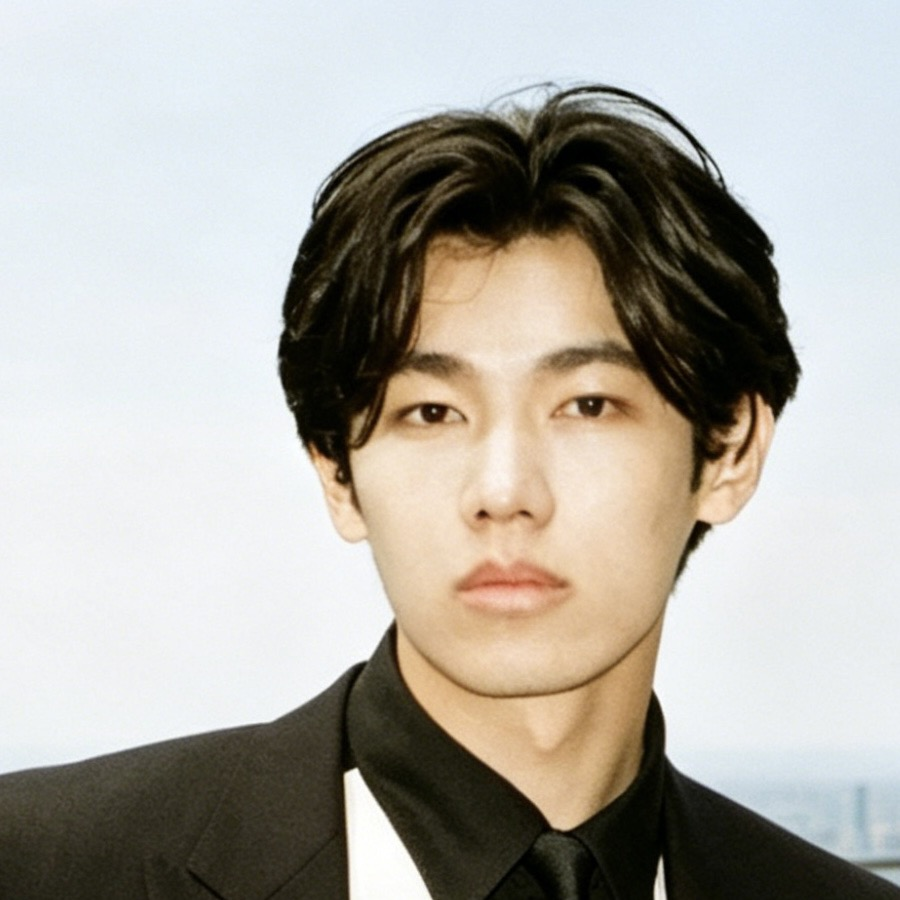
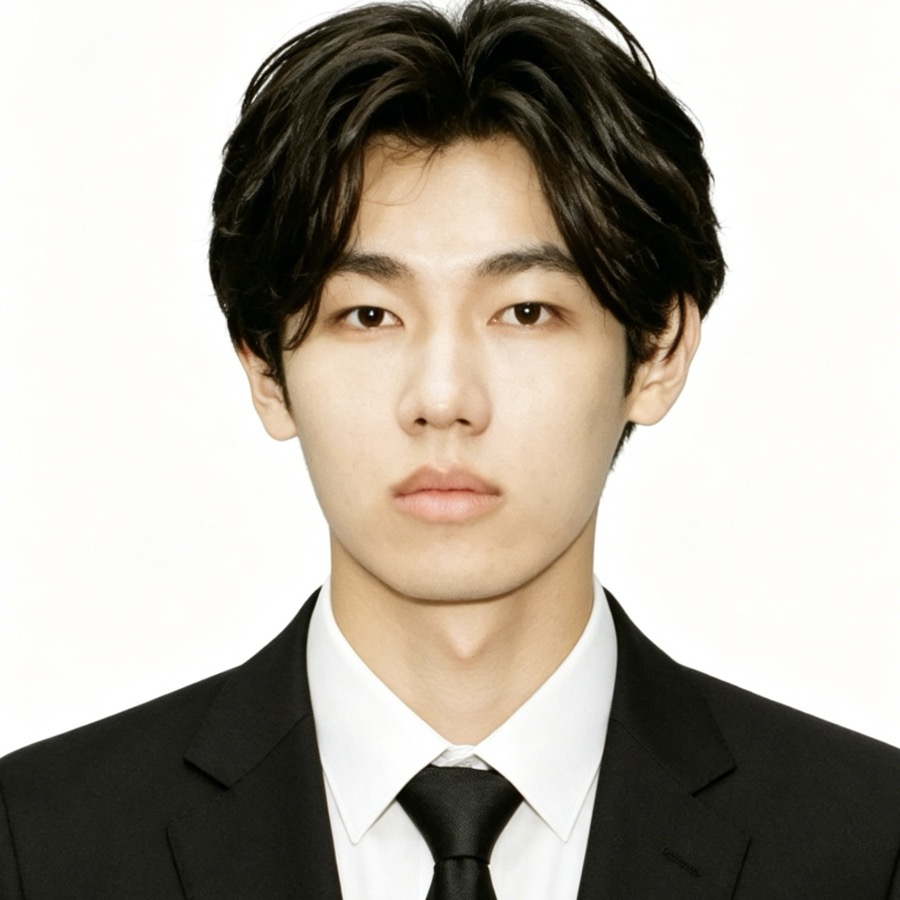
Integrations → category list, restore Xili Tech branding, recrop founder
Integrations section
- Dropped the PLM→ERP→MES cycle diagram: the geometry competed with
  the content and buyers had to decode the shape before reading names.
- Replaced with a four-row category list: PLM, ERP, MES, R&D. Each row
  has a mono code column (accent-colored), full name, role tag
  (Design / Plan & order / Produce / Collaborate), and a row of
  branded pill chips underneath. Adds GitLab, Confluence back into
  the set since the horizontal layout has room. Trailing dashed
  "+ Custom · any REST or SQL source" chip signals extensibility.

Branding
- Xili Tech (their registered English name) restored everywhere the
  XL Tech anonymization had reached: case card title, ROI footnote,
  testimonial author role, timeline entry.
- Real Xili logo PNG wired into the case card (replaces the inline
  XL/TECH SVG wordmark).

Founder photo
- Recropped from the source: 1630×1630 square from y=250, resampled
  to 900×900. Frame now includes hair top, full face, collar, tie,
  and suit lapels — reads as a real executive headshot, not a
  tight face crop.

Cleanup
- Removed all dead flow-diagram CSS (.int-diagram, .int-node*,
  .int-sat*, .int-flow-*).
- Dropped the raw source photo file from the repo.

diff --git a/index.html b/index.html
@@ -674,147 +674,52 @@ html[lang="zh"] .sec-h2 { letter-spacing: -1px; }
   display: grid; grid-template-columns: repeat(3, 1fr); gap: 12px;
 }
 
-/* ─── INTEGRATIONS DIAGRAM (triangle flow + satellites) ──────── */
-.int-diagram {
-  position: relative;
-  width: 100%;
-  max-width: 560px;
-  aspect-ratio: 1 / 0.88;
-  margin: 0 auto;
+/* ─── INTEGRATIONS CATEGORY LIST ──────── */
+.int-cats { display: flex; flex-direction: column; gap: 22px; }
+.int-cat { display: flex; flex-direction: column; gap: 12px; }
+.int-cat-head {
+  display: flex; align-items: baseline; gap: 12px;
+  padding-bottom: 10px;
+  border-bottom: 1px solid var(--border);
 }
-.int-diagram-lines {
-  position: absolute; inset: 0;
-  width: 100%; height: 100%;
-  pointer-events: none;
-  overflow: visible;
-}
-.int-node {
-  position: absolute;
-  transform: translate(-50%, -50%);
-  display: flex; flex-direction: column; align-items: center;
-  gap: 6px;
-  z-index: 2;
-}
-.int-node-main .int-node-bubble {
-  width: 92px; height: 92px; border-radius: 50%;
-  background: linear-gradient(180deg, var(--bg2), var(--bg1));
-  border: 1px solid var(--border3);
-  display: flex; align-items: center; justify-content: center;
-  gap: 6px; padding: 10px;
-  box-shadow: 0 6px 20px rgba(0,0,0,0.35), inset 0 0 0 1px rgba(125,137,255,0.12);
-  position: relative;
-}
-.int-node-main .int-node-bubble::before {
-  content: ''; position: absolute; inset: -2px;
-  border-radius: 50%;
-  background: radial-gradient(circle at 30% 25%, rgba(125,137,255,0.2), transparent 65%);
-  pointer-events: none;
-  z-index: -1;
-}
-.int-node-main .int-node-bubble img,
-.int-node-main .int-node-bubble .wm {
-  height: 20px; width: auto; flex-shrink: 0;
-  filter: grayscale(0.1);
-}
-.int-node-main .int-node-bubble .wm {
-  font-family: 'Inter', sans-serif; font-weight: 800;
-  font-size: 14px; letter-spacing: -0.4px;
-  display: inline-flex; align-items: center; line-height: 1;
-}
-.int-node-label {
-  font-size: 13px; font-weight: 700; color: var(--text);
-  letter-spacing: -0.2px;
-}
-.int-node-sublabel {
-  font-size: 10.5px; color: var(--text3);
-  font-weight: 500; letter-spacing: 0.3px;
-  text-transform: uppercase;
-}
-/* Central Latent hexagon */
-.int-node-center {
-  left: 50%; top: 50%;
-}
-.int-node-center .int-hex {
-  width: 78px; height: 78px;
-  background: linear-gradient(135deg, #4338ca 0%, #7d89ff 50%, #67e8f9 100%);
-  display: flex; align-items: center; justify-content: center;
-  clip-path: polygon(50% 0%, 100% 25%, 100% 75%, 50% 100%, 0% 75%, 0% 25%);
-  box-shadow: 0 8px 28px rgba(90,103,232,0.4);
-  position: relative;
-}
-.int-node-center .int-hex::before {
-  content: ''; position: absolute; inset: 3px;
-  clip-path: polygon(50% 0%, 100% 25%, 100% 75%, 50% 100%, 0% 75%, 0% 25%);
-  background: linear-gradient(180deg, rgba(6,6,10,0.15), rgba(6,6,10,0.45));
-}
-.int-node-center .int-hex-label {
-  position: relative; z-index: 1;
-  font-family: 'Inter', sans-serif;
-  font-size: 14px; font-weight: 800;
-  letter-spacing: -0.3px; color: #fff;
-}
-.int-node-center .int-node-label { font-size: 13px; font-weight: 800; color: var(--accent); margin-top: 2px; }
-/* Triangle positions */
-.int-node-plm { left: 50%; top: 15%; }
-.int-node-erp { left: 82%; top: 70%; }
-.int-node-mes { left: 18%; top: 70%; }
-/* Satellite nodes */
-.int-sat { position: absolute; transform: translate(-50%, -50%); z-index: 2;
-  display: flex; flex-direction: column; align-items: center; gap: 4px;
-}
-.int-sat-bubble {
-  width: 42px; height: 42px; border-radius: 10px;
-  background: var(--bg2); border: 1px solid var(--border2);
-  display: flex; align-items: center; justify-content: center;
-  padding: 8px;
-}
-.int-sat-bubble img { height: 100%; width: auto; object-fit: contain; }
-.int-sat-bubble .wm {
-  font-family: 'Inter', sans-serif; font-weight: 800;
-  font-size: 11px; letter-spacing: -0.3px; line-height: 1;
-}
-.int-sat-label { font-size: 10.5px; font-weight: 600; color: var(--text2); white-space: nowrap; }
-.int-sat-github { left: 10%; top: 18%; }
-.int-sat-jira { left: 90%; top: 18%; }
-.int-sat-feishu { left: 50%; top: 93%; }
-.int-sat-custom { left: 92%; top: 92%; }
-
-/* Flow arrows & dashed satellite lines */
-.int-flow-arrow {
-  fill: none;
-  stroke: var(--accent);
-  stroke-width: 1.5;
-  stroke-linecap: round;
-  opacity: 0.55;
-}
-.int-flow-arrow-head {
-  fill: var(--accent);
-  opacity: 0.8;
-}
-.int-sat-line {
-  fill: none;
-  stroke: var(--accent);
-  stroke-width: 1;
-  stroke-dasharray: 3 3;
-  opacity: 0.3;
-}
-.int-flow-label {
+.int-cat-code {
   font-family: 'JetBrains Mono', ui-monospace, monospace;
-  font-size: 8px; font-weight: 600;
-  fill: var(--text3);
-  letter-spacing: 0.5px;
-  text-transform: uppercase;
+  font-size: 13px; font-weight: 700;
+  color: var(--accent);
+  letter-spacing: 0.4px;
 }
-
-@media (max-width: 860px) {
-  .int-node-main .int-node-bubble { width: 74px; height: 74px; }
-  .int-node-center .int-hex { width: 62px; height: 62px; }
-  .int-node-center .int-hex-label { font-size: 12px; }
-  .int-node-label { font-size: 12px; }
-  .int-node-sublabel { font-size: 9.5px; }
-  .int-sat-bubble { width: 34px; height: 34px; padding: 6px; }
-  .int-sat-label { font-size: 9.5px; }
+.int-cat-name { font-size: 14px; font-weight: 600; color: var(--text); letter-spacing: -0.2px; }
+.int-cat-role {
+  font-size: 11px; font-weight: 600; letter-spacing: 1.2px;
+  text-transform: uppercase; color: var(--text3);
+  margin-left: auto;
 }
+.int-cat-chips { display: flex; flex-wrap: wrap; gap: 8px; }
+.int-chip {
+  display: inline-flex; align-items: center; gap: 9px;
+  padding: 8px 14px;
+  background: var(--bg2);
+  border: 1px solid var(--border2);
+  border-radius: 10px;
+  font-size: 12.5px; font-weight: 600; color: var(--text);
+  letter-spacing: -0.1px;
+  transition: border-color 0.15s, background 0.15s, transform 0.15s;
+}
+.int-chip:hover { border-color: rgba(125,137,255,0.3); background: var(--bg3); transform: translateY(-1px); }
+.int-chip img { height: 16px; width: auto; flex-shrink: 0; filter: grayscale(0.08); }
+.int-chip svg { height: 16px; width: auto; flex-shrink: 0; }
+.int-chip .wm {
+  font-family: 'Inter', sans-serif; font-weight: 800;
+  font-size: 13px; letter-spacing: -0.4px; line-height: 1;
+}
+.int-chip-more {
+  background: transparent;
+  border: 1px dashed var(--border2);
+  color: var(--text3);
+  font-weight: 500;
+  font-style: italic;
+}
+.int-chip-more:hover { border-color: var(--border3); color: var(--text2); }
 .int-tile {
   aspect-ratio: 1.15;
   background: linear-gradient(180deg, var(--bg2) 0%, var(--bg1) 100%);
@@ -1555,7 +1460,7 @@ footer {
     </div>
     <div class="case-card">
       <div class="case-left">
[1 lines of base64/hex data omitted]
+        <img src="xili-logo.png" alt="Xili Tech" class="case-logo">
         <div class="case-company">
           <div class="case-name">
             <span data-en="inline">Xili Tech</span>
@@ -1641,84 +1546,74 @@ footer {
         </ul>
       </div>
 
-      <div class="int-diagram fade-in" aria-label="Latent integrates the PLM / ERP / MES cycle plus supporting tools">
-        <svg class="int-diagram-lines" viewBox="0 0 100 88" preserveAspectRatio="none" aria-hidden="true">
-          <defs>
-            <marker id="arrow-accent" viewBox="0 0 10 10" refX="7" refY="5" markerWidth="5" markerHeight="5" orient="auto-start-reverse">
-              <path d="M 0 0 L 10 5 L 0 10 z" class="int-flow-arrow-head"/>
-            </marker>
-          </defs>
-          <!-- Dashed lines: satellites ↔ Latent center -->
-          <line x1="50" y1="44" x2="12" y2="18"  class="int-sat-line"/>
-          <line x1="50" y1="44" x2="88" y2="18"  class="int-sat-line"/>
-          <line x1="50" y1="44" x2="50" y2="80"  class="int-sat-line"/>
-          <!-- Solid cycle arrows: PLM → ERP → MES → PLM -->
-          <path d="M 57 18 Q 82 25, 79 60" class="int-flow-arrow" marker-end="url(#arrow-accent)"/>
-          <path d="M 75 70 Q 50 82, 25 70" class="int-flow-arrow" marker-end="url(#arrow-accent)"/>
-          <path d="M 21 60 Q 18 25, 43 18" class="int-flow-arrow" marker-end="url(#arrow-accent)"/>
-          <!-- Flow stage labels -->
-          <text x="90" y="40" text-anchor="middle" class="int-flow-label">Plan</text>
-          <text x="50" y="86" text-anchor="middle" class="int-flow-label">Produce</text>
-          <text x="10" y="40" text-anchor="middle" class="int-flow-label">Design</text>
-        </svg>
-
-        <!-- Central: Latent -->
-        <div class="int-node int-node-center">
-          <div class="int-hex">
-            <span class="int-hex-label">L</span>
+      <div class="int-cats fade-in">
+        <!-- PLM -->
+        <div class="int-cat">
+          <div class="int-cat-head">
+            <span class="int-cat-code">PLM</span>
+            <span class="int-cat-name" data-en="inline">Product lifecycle</span>
+            <span class="int-cat-name" data-zh="inline">产品生命周期</span>
+            <span class="int-cat-role" data-en="inline">Design</span>
+            <span class="int-cat-role" data-zh="inline">设计</span>
           </div>
-          <div class="int-node-label">Latent</div>
+          <div class="int-cat-chips">
+            <span class="int-chip"><img src="https://cdn.simpleicons.org/sap/f0f0f5" alt="SAP" loading="lazy">SAP PLM</span>
+            <span class="int-chip"><img src="https://cdn.simpleicons.org/siemens/009999" alt="Siemens" loading="lazy">Siemens Teamcenter</span>
+            <span class="int-chip"><span class="wm" style="color:#c84a4a">PTC</span>Windchill</span>
+            <span class="int-chip"><span class="wm" style="color:#e04e2d">3<span style="color:#f0f0f5">D</span>S</span>Dassault ENOVIA</span>
+          </div>
         </div>
 
-        <!-- Main triangle: PLM / ERP / MES -->
-        <div class="int-node int-node-main int-node-plm">
-          <div class="int-node-bubble">
-            <img src="https://cdn.simpleicons.org/siemens/009999" alt="Siemens" loading="lazy">
-            <span class="wm" style="color:#c84a4a">PTC</span>
-            <span class="wm" style="color:#e04e2d">3<span style="color:#f0f0f5">D</span>S</span>
+        <!-- ERP -->
+        <div class="int-cat">
+          <div class="int-cat-head">
+            <span class="int-cat-code">ERP</span>
+            <span class="int-cat-name" data-en="inline">Enterprise resource</span>
+            <span class="int-cat-name" data-zh="inline">企业资源计划</span>
+            <span class="int-cat-role" data-en="inline">Plan &amp; order</span>
+            <span class="int-cat-role" data-zh="inline">计划 · 采购</span>
           </div>
-          <div class="int-node-label">PLM</div>
-          <div class="int-node-sublabel" data-en="inline">Design</div>
-          <div class="int-node-sublabel" data-zh="inline">设计</div>
-        </div>
-        <div class="int-node int-node-main int-node-erp">
-          <div class="int-node-bubble">
-            <img src="https://cdn.simpleicons.org/sap/f0f0f5" alt="SAP" loading="lazy">
-            <span class="wm" style="color:#f80000;font-family:Arial,sans-serif;letter-spacing:-0.8px;font-weight:900;font-size:11px">ORACLE</span>
+          <div class="int-cat-chips">
+            <span class="int-chip"><img src="https://cdn.simpleicons.org/sap/f0f0f5" alt="SAP" loading="lazy">SAP ERP</span>
+            <span class="int-chip"><span class="wm" style="color:#f80000;font-family:Arial,sans-serif;letter-spacing:-0.8px;font-weight:900">ORACLE</span></span>
+            <span class="int-chip"><span class="wm" style="color:#d9001b;font-family:'PingFang SC','Microsoft YaHei',sans-serif">用友</span><span data-en="inline">Yonyou</span><span data-zh="inline">NC</span></span>
           </div>
-          <div class="int-node-label">ERP</div>
-          <div class="int-node-sublabel" data-en="inline">Plan &amp; order</div>
-          <div class="int-node-sublabel" data-zh="inline">计划 · 采购</div>
-        </div>
-        <div class="int-node int-node-main int-node-mes">
-          <div class="int-node-bubble">
-            <span class="wm" style="color:#009999;font-size:13px">Opcenter</span>
-            <span class="wm" style="color:#d9001b;font-family:'PingFang SC','Microsoft YaHei',sans-serif;font-size:15px">用友</span>
-          </div>
-          <div class="int-node-label">MES</div>
-          <div class="int-node-sublabel" data-en="inline">Produce</div>
-          <div class="int-node-sublabel" data-zh="inline">生产执行</div>
         </div>
 
-        <!-- Satellites: supporting tools -->
-        <div class="int-sat int-sat-github">
-          <div class="int-sat-bubble">
-            <img src="https://cdn.simpleicons.org/github/f0f0f5" alt="GitHub" loading="lazy">
+        <!-- MES -->
+        <div class="int-cat">
+          <div class="int-cat-head">
+            <span class="int-cat-code">MES</span>
+            <span class="int-cat-name" data-en="inline">Manufacturing execution</span>
+            <span class="int-cat-name" data-zh="inline">制造执行系统</span>
+            <span class="int-cat-role" data-en="inline">Produce</span>
+            <span class="int-cat-role" data-zh="inline">生产执行</span>
           </div>
-          <div class="int-sat-label">GitHub</div>
+          <div class="int-cat-chips">
+            <span class="int-chip"><img src="https://cdn.simpleicons.org/siemens/009999" alt="Siemens" loading="lazy">Siemens Opcenter</span>
+            <span class="int-chip"><span class="wm" style="color:#d9001b;font-family:'PingFang SC','Microsoft YaHei',sans-serif">用友</span>MES</span>
+          </div>
         </div>
-        <div class="int-sat int-sat-jira">
-          <div class="int-sat-bubble">
-            <img src="https://cdn.simpleicons.org/jira/2684ff" alt="Jira" loading="lazy">
+
+        <!-- R&D Tools -->
+        <div class="int-cat">
+          <div class="int-cat-head">
+            <span class="int-cat-code" data-en="inline">R&amp;D</span>
+            <span class="int-cat-code" data-zh="inline">研发</span>
+            <span class="int-cat-name" data-en="inline">Code · tasks · docs</span>
+            <span class="int-cat-name" data-zh="inline">代码 · 任务 · 文档</span>
+            <span class="int-cat-role" data-en="inline">Collaborate</span>
+            <span class="int-cat-role" data-zh="inline">协作</span>
           </div>
-          <div class="int-sat-label">Jira</div>
-        </div>
-        <div class="int-sat int-sat-feishu">
-          <div class="int-sat-bubble">
-            <img src="https://cdn.simpleicons.org/lark/00d6b9" alt="Feishu" loading="lazy" onerror="this.style.display='none';this.parentElement.innerHTML='<span class=&quot;wm&quot; style=&quot;color:#00d6b9&quot;>Lark</span>'">
+          <div class="int-cat-chips">
+            <span class="int-chip"><img src="https://cdn.simpleicons.org/github/f0f0f5" alt="GitHub" loading="lazy">GitHub</span>
+            <span class="int-chip"><img src="https://cdn.simpleicons.org/gitlab/fc6d26" alt="GitLab" loading="lazy">GitLab</span>
+            <span class="int-chip"><img src="https://cdn.simpleicons.org/jira/2684ff" alt="Jira" loading="lazy">Jira</span>
+            <span class="int-chip"><img src="https://cdn.simpleicons.org/confluence/2684ff" alt="Confluence" loading="lazy">Confluence</span>
+            <span class="int-chip"><img src="https://cdn.simpleicons.org/lark/00d6b9" alt="Lark" loading="lazy" onerror="this.style.display='none';this.parentElement.innerHTML='<span class=&quot;wm&quot; style=&quot;color:#00d6b9&quot;>Lark</span>'+this.parentElement.innerHTML"><span data-en="inline">Feishu / Lark</span><span data-zh="inline">飞书</span></span>
+            <span class="int-chip int-chip-more" data-en="inline">+ Custom · any REST or SQL source</span>
+            <span class="int-chip int-chip-more" data-zh="inline">+ 定制 · 任何 REST / SQL 数据源</span>
           </div>
-          <div class="int-sat-label" data-en="inline">Feishu / Lark</div>
-          <div class="int-sat-label" data-zh="inline">飞书</div>
         </div>
       </div>
     </div>
